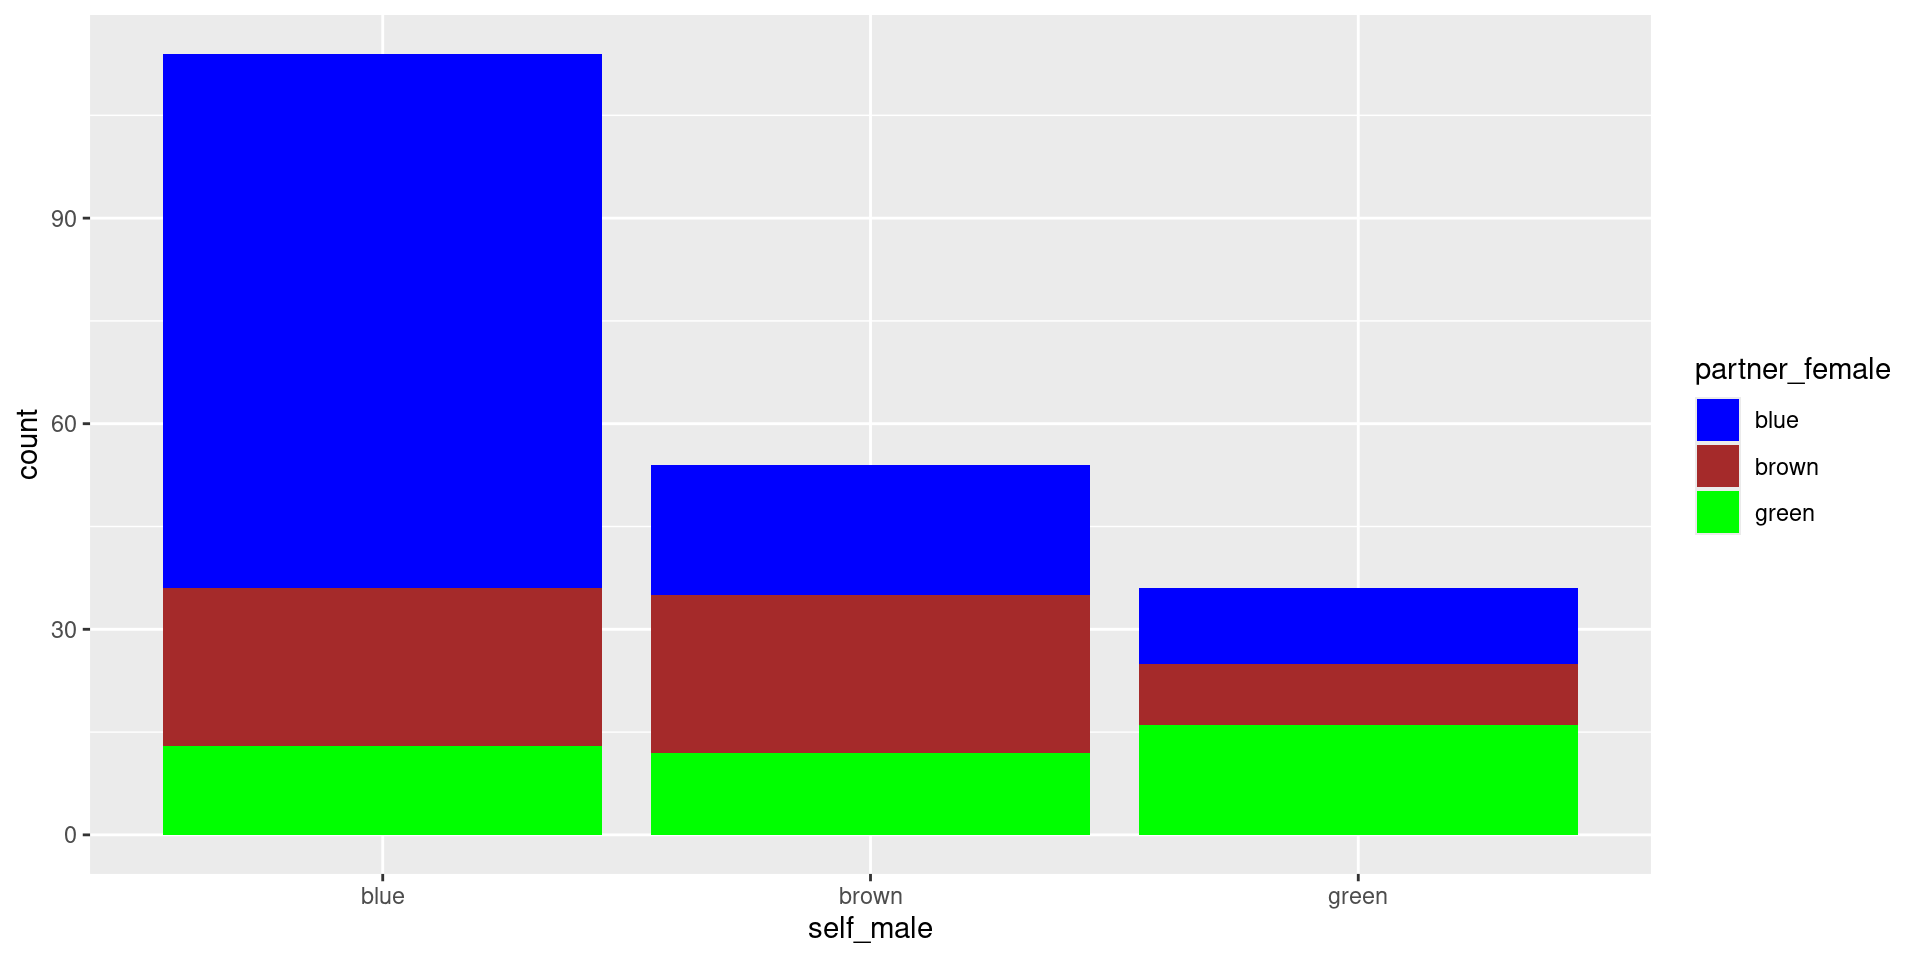
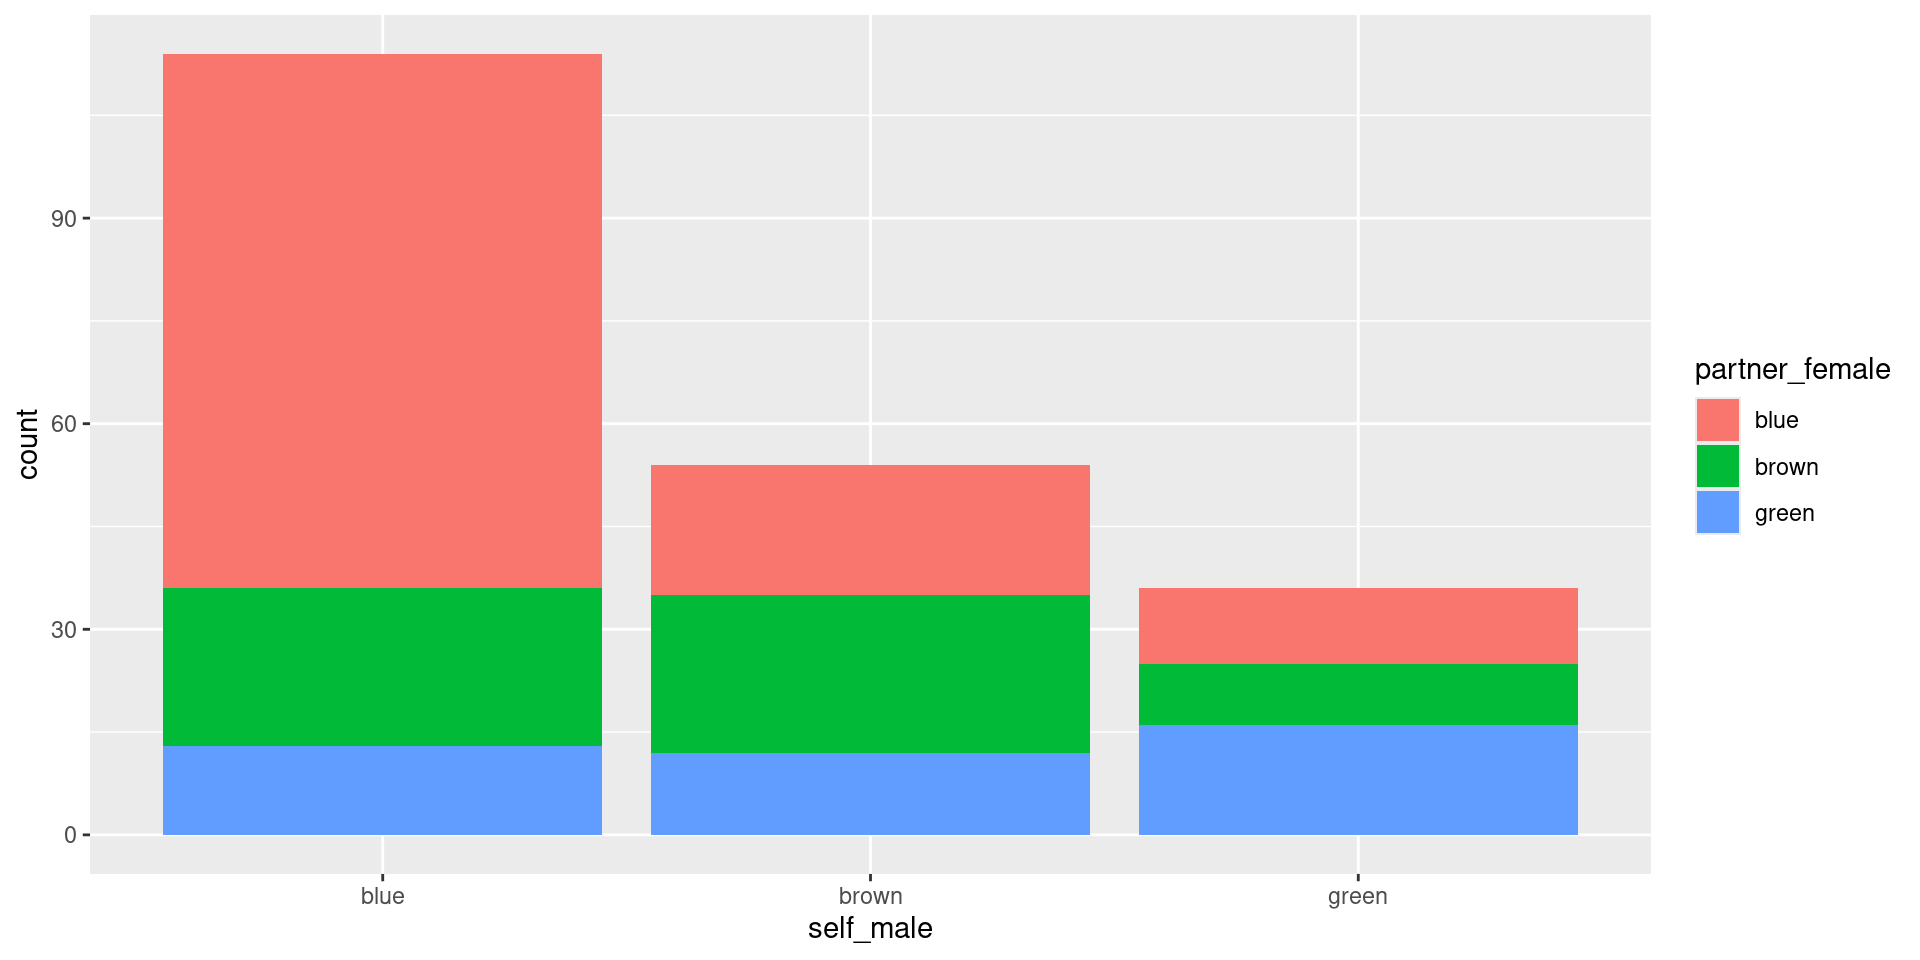
typos

diff --git a/docs/lectures/3_categorical_data.html b/docs/lectures/3_categorical_data.html
@@ -11,7 +11,7 @@
   <meta name="generator" content="quarto-1.4.555">
 
   <meta name="author" content="Nic Schwab">
-  <title>MTH 142 Online - Categorical and Numeric Data</title>
+  <title>MTH 142 Online - Exploring Categorical Data</title>
   <meta name="apple-mobile-web-app-capable" content="yes">
   <meta name="apple-mobile-web-app-status-bar-style" content="black-translucent">
   <meta name="viewport" content="width=device-width, initial-scale=1.0, maximum-scale=1.0, user-scalable=no, minimal-ui">
@@ -391,7 +391,7 @@
     <div class="slides">
 
 <section id="title-slide" class="quarto-title-block center">
-  <h1 class="title">Categorical and Numeric Data</h1>
+  <h1 class="title">Exploring Categorical Data</h1>
   <p class="subtitle">IMS, Ch. 4</p>
 
 <div class="quarto-title-authors">
@@ -414,12 +414,12 @@ Nic Schwab
 <ul>
 <li class="fragment">The amount of ice cream sold in New England and the number of deaths by drowning</li>
 <li class="fragment">The number of doctors in a region and the number of crimes committed in that region</li>
-<li class="fragment">The amount of coffee consumed and the prevalence of lung cancer</li>
 </ul>
 </div>
 </section>
 <section id="explore-categorical-data" class="slide level2">
 <h2>Explore Categorical Data</h2>
+<p>We’ll be exploring categorical data using R</p>
 </section>
 <section id="chapter-4" class="slide level2">
 <h2>Chapter 4</h2>
@@ -428,35 +428,36 @@ Nic Schwab
 <div class="sourceCode cell-code" id="cb1"><pre class="sourceCode numberSource r number-lines code-with-copy"><code class="sourceCode r"><span id="cb1-1"><a></a><span class="fu">library</span>(tidyverse)</span>
 <span id="cb1-2"><a></a><span class="fu">library</span>(openintro)</span>
 <span id="cb1-3"><a></a></span>
-<span id="cb1-4"><a></a><span class="co"># You should read the documentation of the data as a first step to exploring it. </span></span>
-<span id="cb1-5"><a></a>?assortative_mating</span></code><button title="Copy to Clipboard" class="code-copy-button"><i class="bi"></i></button></pre></div>
+<span id="cb1-4"><a></a><span class="co"># You should read and view the documentation of the data as a first step to exploring it. </span></span>
+<span id="cb1-5"><a></a>?assortive_mating</span>
+<span id="cb1-6"><a></a>assortive_mating</span></code><button title="Copy to Clipboard" class="code-copy-button"><i class="bi"></i></button></pre></div>
+<div class="cell-output cell-output-stdout">
+<pre><code># A tibble: 204 × 2
+   self_male partner_female
+   &lt;fct&gt;     &lt;fct&gt;         
+ 1 blue      blue          
+ 2 blue      blue          
+ 3 blue      blue          
+ 4 blue      blue          
+ 5 blue      blue          
+ 6 blue      blue          
+ 7 blue      blue          
+ 8 blue      blue          
+ 9 blue      blue          
+10 blue      blue          
+# ℹ 194 more rows</code></pre>
+</div>
 </div>
 </section>
 <section id="sec-explore-categorical" class="slide level2">
 <h2>Exploring categorical data</h2>
 <p>Let’s explore <strong>categorical</strong> data using summary statistics and visualizations.</p>
-<div class="cell">
-<div class="sourceCode cell-code" id="cb2"><pre class="sourceCode numberSource r number-lines code-with-copy"><code class="sourceCode r"><span id="cb2-1"><a></a><span class="co">#Look at the top 6 rows of the assortative mating data</span></span>
-<span id="cb2-2"><a></a></span>
-<span id="cb2-3"><a></a><span class="fu">slice_head</span>(<span class="at">.data =</span>  assortative_mating, <span class="at">n =</span> <span class="dv">6</span>)</span></code><button title="Copy to Clipboard" class="code-copy-button"><i class="bi"></i></button></pre></div>
-<div class="cell-output cell-output-stdout">
-<pre><code># A tibble: 6 × 2
-  self_male partner_female
-  &lt;fct&gt;     &lt;fct&gt;         
-1 blue      blue          
-2 blue      blue          
-3 blue      blue          
-4 blue      blue          
-5 blue      blue          
-6 blue      blue          </code></pre>
-</div>
-</div>
 </section>
 <section id="tables" class="slide level2">
 <h2>Tables</h2>
 <p>Tables are also helpful in understanding categorical data</p>
 <div class="cell">
-<div class="sourceCode cell-code" id="cb4"><pre class="sourceCode numberSource r number-lines code-with-copy"><code class="sourceCode r"><span id="cb4-1"><a></a><span class="fu">table</span>(<span class="at">data =</span> assortative_mating)</span></code><button title="Copy to Clipboard" class="code-copy-button"><i class="bi"></i></button></pre></div>
+<div class="sourceCode cell-code" id="cb3"><pre class="sourceCode numberSource r number-lines code-with-copy"><code class="sourceCode r"><span id="cb3-1"><a></a><span class="fu">table</span>(<span class="at">data =</span> assortive_mating)</span></code><button title="Copy to Clipboard" class="code-copy-button"><i class="bi"></i></button></pre></div>
 <div class="cell-output cell-output-stdout">
 <pre><code>         partner_female
 self_male blue brown green
@@ -469,12 +470,12 @@ self_male blue brown green
 <section id="prop-tables" class="slide level2">
 <h2>Prop tables</h2>
 <div class="cell">
-<div class="sourceCode cell-code" id="cb6"><pre class="sourceCode numberSource r number-lines code-with-copy"><code class="sourceCode r"><span id="cb6-1"><a></a><span class="co"># Here I am saving the table as the variable my_table</span></span>
-<span id="cb6-2"><a></a><span class="co"># I am telling table I specifically want to look at the male and female variables.</span></span>
-<span id="cb6-3"><a></a></span>
-<span id="cb6-4"><a></a>my_table <span class="ot">&lt;-</span> <span class="fu">table</span>(assortative_mating<span class="sc">$</span>self_male, assortative_mating<span class="sc">$</span>partner_female)</span>
-<span id="cb6-5"><a></a></span>
-<span id="cb6-6"><a></a><span class="fu">prop.table</span>(my_table)</span></code><button title="Copy to Clipboard" class="code-copy-button"><i class="bi"></i></button></pre></div>
+<div class="sourceCode cell-code" id="cb5"><pre class="sourceCode numberSource r number-lines code-with-copy"><code class="sourceCode r"><span id="cb5-1"><a></a><span class="co"># Here I am saving the table as the variable my_table</span></span>
+<span id="cb5-2"><a></a><span class="co"># I am telling table I specifically want to look at the male and female variables.</span></span>
+<span id="cb5-3"><a></a></span>
+<span id="cb5-4"><a></a>my_table <span class="ot">&lt;-</span> <span class="fu">table</span>(assortive_mating<span class="sc">$</span>self_male, assortive_mating<span class="sc">$</span>partner_female)</span>
+<span id="cb5-5"><a></a></span>
+<span id="cb5-6"><a></a><span class="fu">prop.table</span>(my_table)</span></code><button title="Copy to Clipboard" class="code-copy-button"><i class="bi"></i></button></pre></div>
 <div class="cell-output cell-output-stdout">
 <pre><code>       
               blue      brown      green
@@ -487,7 +488,7 @@ self_male blue brown green
 <section id="margins" class="slide level2">
 <h2>Margins</h2>
 <div class="cell">
-<div class="sourceCode cell-code" id="cb8"><pre class="sourceCode numberSource r number-lines code-with-copy"><code class="sourceCode r"><span id="cb8-1"><a></a><span class="fu">addmargins</span>(<span class="at">A =</span> my_table)</span></code><button title="Copy to Clipboard" class="code-copy-button"><i class="bi"></i></button></pre></div>
+<div class="sourceCode cell-code" id="cb7"><pre class="sourceCode numberSource r number-lines code-with-copy"><code class="sourceCode r"><span id="cb7-1"><a></a><span class="fu">addmargins</span>(<span class="at">A =</span> my_table)</span></code><button title="Copy to Clipboard" class="code-copy-button"><i class="bi"></i></button></pre></div>
 <div class="cell-output cell-output-stdout">
 <pre><code>       
         blue brown green Sum
@@ -504,8 +505,8 @@ self_male blue brown green
 <div class="columns">
 <div class="column" style="width:50%;">
 <div class="cell">
-<div class="sourceCode cell-code" id="cb10"><pre class="sourceCode numberSource r number-lines code-with-copy"><code class="sourceCode r"><span id="cb10-1"><a></a><span class="fu">ggplot</span>(<span class="at">data =</span> assortative_mating, <span class="at">mapping =</span> <span class="fu">aes</span>(<span class="at">x=</span>self_male)) <span class="sc">+</span></span>
-<span id="cb10-2"><a></a>  <span class="fu">geom_bar</span>()</span></code><button title="Copy to Clipboard" class="code-copy-button"><i class="bi"></i></button></pre></div>
+<div class="sourceCode cell-code" id="cb9"><pre class="sourceCode numberSource r number-lines code-with-copy"><code class="sourceCode r"><span id="cb9-1"><a></a><span class="fu">ggplot</span>(<span class="at">data =</span> assortive_mating, <span class="at">mapping =</span> <span class="fu">aes</span>(<span class="at">x=</span>self_male)) <span class="sc">+</span></span>
+<span id="cb9-2"><a></a>  <span class="fu">geom_bar</span>()</span></code><button title="Copy to Clipboard" class="code-copy-button"><i class="bi"></i></button></pre></div>
 <div class="cell-output-display">
 <div>
 <figure>
@@ -516,8 +517,8 @@ self_male blue brown green
 </div>
 </div><div class="column" style="width:50%;">
 <div class="cell">
-<div class="sourceCode cell-code" id="cb11"><pre class="sourceCode numberSource r number-lines code-with-copy"><code class="sourceCode r"><span id="cb11-1"><a></a><span class="fu">ggplot</span>(<span class="at">data =</span> assortative_mating, <span class="at">mapping =</span> <span class="fu">aes</span>(<span class="at">x=</span>partner_female)) <span class="sc">+</span></span>
-<span id="cb11-2"><a></a>  <span class="fu">geom_bar</span>()</span></code><button title="Copy to Clipboard" class="code-copy-button"><i class="bi"></i></button></pre></div>
+<div class="sourceCode cell-code" id="cb10"><pre class="sourceCode numberSource r number-lines code-with-copy"><code class="sourceCode r"><span id="cb10-1"><a></a><span class="fu">ggplot</span>(<span class="at">data =</span> assortive_mating, <span class="at">mapping =</span> <span class="fu">aes</span>(<span class="at">x=</span>partner_female)) <span class="sc">+</span></span>
+<span id="cb10-2"><a></a>  <span class="fu">geom_bar</span>()</span></code><button title="Copy to Clipboard" class="code-copy-button"><i class="bi"></i></button></pre></div>
 <div class="cell-output-display">
 <div>
 <figure>
@@ -533,8 +534,8 @@ self_male blue brown green
 <h2>Mosaic plots</h2>
 <p>In the case of two categorical variables the mosaic plot is nice.</p>
 <div class="cell">
-<div class="sourceCode cell-code" id="cb12"><pre class="sourceCode numberSource r number-lines code-with-copy"><code class="sourceCode r"><span id="cb12-1"><a></a><span class="co"># Here I am showing that I want to see a relationship between the two variables. </span></span>
-<span id="cb12-2"><a></a><span class="fu">mosaicplot</span>(self_male <span class="sc">~</span> partner_female, <span class="at">data=</span>assortative_mating)</span></code><button title="Copy to Clipboard" class="code-copy-button"><i class="bi"></i></button></pre></div>
+<div class="sourceCode cell-code" id="cb11"><pre class="sourceCode numberSource r number-lines code-with-copy"><code class="sourceCode r"><span id="cb11-1"><a></a><span class="co"># Here I am showing that I want to see a relationship between the two variables. </span></span>
+<span id="cb11-2"><a></a><span class="fu">mosaicplot</span>(self_male <span class="sc">~</span> partner_female, <span class="at">data=</span>assortive_mating)</span></code><button title="Copy to Clipboard" class="code-copy-button"><i class="bi"></i></button></pre></div>
 
 </div>
 <img data-src="3_categorical_data_files/figure-revealjs/unnamed-chunk-7-1.png" width="960" class="r-stretch"></section>
@@ -542,27 +543,24 @@ self_male blue brown green
 <h2>2 variables with bar</h2>
 <p>We can map aes to multiple variables</p>
 <div class="cell">
-<div class="sourceCode cell-code" id="cb13"><pre class="sourceCode numberSource r number-lines code-with-copy"><code class="sourceCode r"><span id="cb13-1"><a></a><span class="fu">ggplot</span>(<span class="at">data =</span> assortative_mating, <span class="at">mapping =</span> <span class="fu">aes</span>(<span class="at">x=</span>self_male, <span class="at">fill=</span>partner_female)) <span class="sc">+</span></span>
-<span id="cb13-2"><a></a>  <span class="fu">geom_bar</span>()<span class="sc">+</span></span>
-<span id="cb13-3"><a></a>  <span class="fu">scale_fill_manual</span>( <span class="at">values =</span> <span class="fu">c</span>(<span class="st">"blue"</span>,<span class="st">"brown"</span>,<span class="st">"green"</span>))</span></code><button title="Copy to Clipboard" class="code-copy-button"><i class="bi"></i></button></pre></div>
+<div class="sourceCode cell-code" id="cb12"><pre class="sourceCode numberSource r number-lines code-with-copy"><code class="sourceCode r"><span id="cb12-1"><a></a><span class="fu">ggplot</span>(<span class="at">data =</span> assortive_mating, <span class="at">mapping =</span> <span class="fu">aes</span>(<span class="at">x=</span>self_male, <span class="at">fill=</span>partner_female)) <span class="sc">+</span></span>
+<span id="cb12-2"><a></a>  <span class="fu">geom_bar</span>()</span></code><button title="Copy to Clipboard" class="code-copy-button"><i class="bi"></i></button></pre></div>
 
 </div>
 <img data-src="3_categorical_data_files/figure-revealjs/unnamed-chunk-8-1.png" width="960" class="r-stretch"></section>
 <section id="fill" class="slide level2">
 <h2>fill</h2>
 <div class="cell">
-<div class="sourceCode cell-code" id="cb14" data-code-line-numbers="2"><pre class="sourceCode numberSource r number-lines code-with-copy"><code class="sourceCode r"><span id="cb14-1"><a></a><span class="fu">ggplot</span>(<span class="at">data =</span> assortative_mating, <span class="at">mapping =</span> <span class="fu">aes</span>(<span class="at">x=</span>self_male,<span class="at">fill=</span>partner_female)) <span class="sc">+</span></span>
-<span id="cb14-2"><a></a>  <span class="fu">geom_bar</span>(<span class="at">position =</span> <span class="st">"fill"</span>)<span class="sc">+</span></span>
-<span id="cb14-3"><a></a>  <span class="fu">scale_fill_manual</span>( <span class="at">values =</span> <span class="fu">c</span>(<span class="st">"blue"</span>,<span class="st">"brown"</span>,<span class="st">"green"</span>))</span></code><button title="Copy to Clipboard" class="code-copy-button"><i class="bi"></i></button></pre></div>
+<div class="sourceCode cell-code" id="cb13" data-code-line-numbers="2"><pre class="sourceCode numberSource r number-lines code-with-copy"><code class="sourceCode r"><span id="cb13-1"><a></a><span class="fu">ggplot</span>(<span class="at">data =</span> assortive_mating, <span class="at">mapping =</span> <span class="fu">aes</span>(<span class="at">x=</span>self_male,<span class="at">fill=</span>partner_female)) <span class="sc">+</span></span>
+<span id="cb13-2"><a></a>  <span class="fu">geom_bar</span>(<span class="at">position =</span> <span class="st">"fill"</span>)</span></code><button title="Copy to Clipboard" class="code-copy-button"><i class="bi"></i></button></pre></div>
 
 </div>
 <img data-src="3_categorical_data_files/figure-revealjs/unnamed-chunk-9-1.png" width="960" class="r-stretch"></section>
 <section id="dodge" class="slide level2">
 <h2>dodge</h2>
 <div class="cell">
-<div class="sourceCode cell-code" id="cb15" data-code-line-numbers="3"><pre class="sourceCode numberSource r number-lines code-with-copy"><code class="sourceCode r"><span id="cb15-1"><a></a><span class="fu">ggplot</span>(<span class="at">data =</span> assortative_mating, <span class="at">mapping =</span> <span class="fu">aes</span>(<span class="at">x=</span>self_male,<span class="at">fill=</span>partner_female)) <span class="sc">+</span></span>
-<span id="cb15-2"><a></a>  <span class="fu">geom_bar</span>(<span class="at">position =</span> <span class="st">"dodge"</span>)<span class="sc">+</span></span>
-<span id="cb15-3"><a></a>  <span class="fu">scale_fill_manual</span>( <span class="at">values =</span> <span class="fu">c</span>(<span class="st">"blue"</span>,<span class="st">"brown"</span>,<span class="st">"green"</span>))</span></code><button title="Copy to Clipboard" class="code-copy-button"><i class="bi"></i></button></pre></div>
+<div class="sourceCode cell-code" id="cb14" data-code-line-numbers="3"><pre class="sourceCode numberSource r number-lines code-with-copy"><code class="sourceCode r"><span id="cb14-1"><a></a><span class="fu">ggplot</span>(<span class="at">data =</span> assortive_mating, <span class="at">mapping =</span> <span class="fu">aes</span>(<span class="at">x=</span>self_male,<span class="at">fill=</span>partner_female)) <span class="sc">+</span></span>
+<span id="cb14-2"><a></a>  <span class="fu">geom_bar</span>(<span class="at">position =</span> <span class="st">"dodge"</span>)</span></code><button title="Copy to Clipboard" class="code-copy-button"><i class="bi"></i></button></pre></div>
 
 </div>
 <img data-src="3_categorical_data_files/figure-revealjs/unnamed-chunk-10-1.png" width="960" class="r-stretch"></section>
